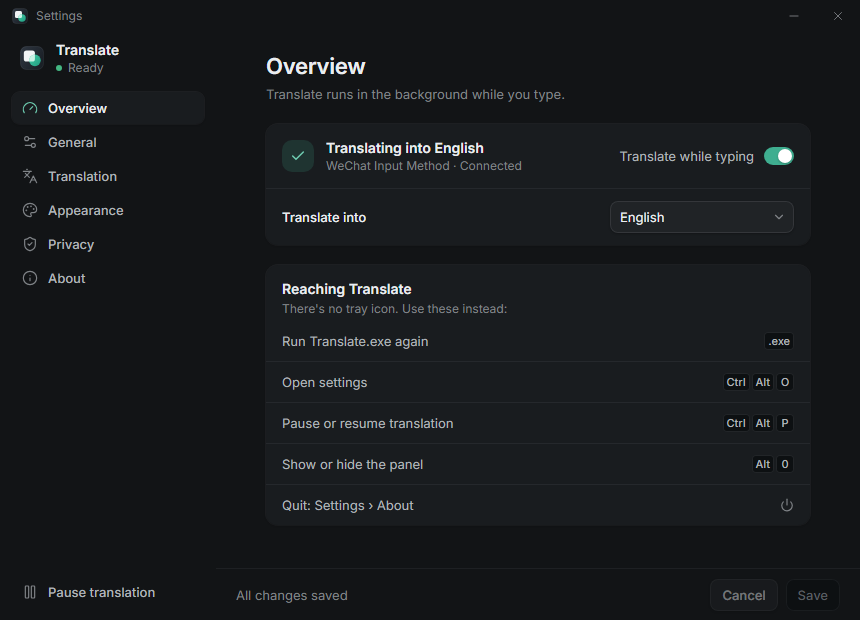
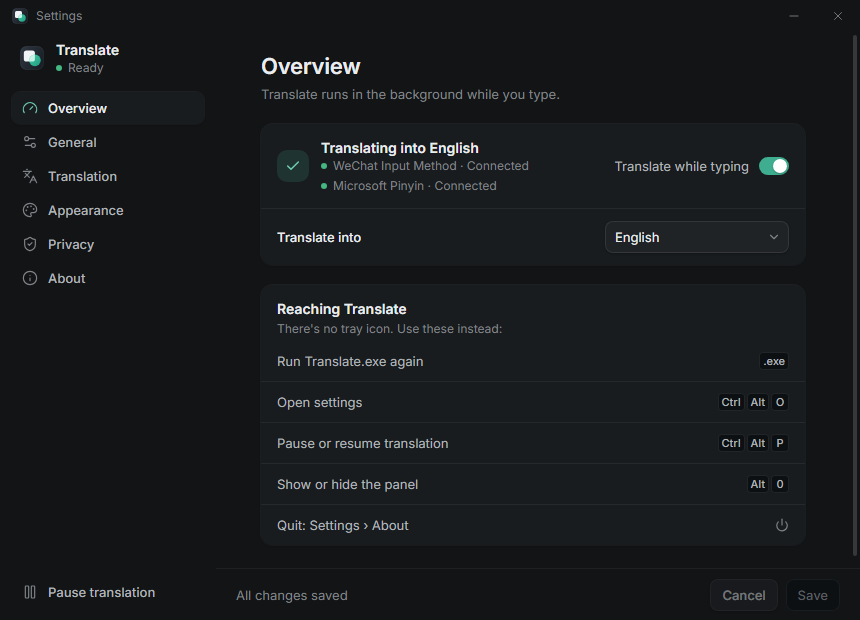
0.2.2: show both input methods with independent connection states

diff --git a/prototype/src/settings/pages.tsx b/prototype/src/settings/pages.tsx
@@ -677,7 +677,6 @@ export function AboutPage({ onQuit }: { onQuit: () => void }) {
   const { t } = useTranslation()
   const [copied, setCopied] = useState(false)
   const version = useReview((r) => r.version)
-  const ime = useImeStatus()
   const pad = 'px-4 py-3'
   const rows: [string, React.ReactNode][] = [
     [t('settings.about.version'), version],
@@ -690,10 +689,7 @@ export function AboutPage({ onQuit }: { onQuit: () => void }) {
     ],
     [
       t('settings.about.ime'),
-      <span className="inline-flex items-center gap-1.5">
-        <span className={cx('size-1.5 rounded-full', ime.ok ? 'bg-success' : 'bg-fg-4')} />
-        {ime.name} — {ime.ok ? t('settings.about.connected') : t('settings.about.notRunning')}
-      </span>,
+      <InputMethodConnections />,
     ],
     // Required attribution (CC BY-SA 4.0) for the local dictionary.
     [t('settings.about.dict'), 'CC-CEDICT · CC BY-SA 4.0'],
@@ -740,20 +736,27 @@ export function AboutPage({ onQuit }: { onQuit: () => void }) {
 }
 
 
-/** Which input method Translate is following and whether it's connected (from the engine; the design lab shows WeType). */
-function useImeStatus(): { name: string; ok: boolean } {
+/** Independent adapter readiness; this does not claim which input method Windows has selected. */
+function InputMethodConnections() {
   const { t } = useTranslation()
-  const [st, setSt] = useState<{ ime: string; imeName?: string }>({ ime: 'connected', imeName: 'wetype' })
+  const [st, setSt] = useState<{ imeStates?: Record<string, string> }>({})
   useEffect(() => {
     if (!bridge) return
     let alive = true
-    const read = () => bridge!.status().then((s) => alive && setSt(s)).catch(() => {})
+    const read = () => bridge!.status().then((s) => alive && setSt(s)).catch(() => alive && setSt({}))
     read()
     const id = window.setInterval(read, 2000)
     return () => ((alive = false), window.clearInterval(id))
   }, [])
-  const name = st.imeName === 'mspinyin' ? t('settings.about.imeMsPinyin') : t('settings.about.imeVal')
-  return { name, ok: st.ime === 'connected' }
+  return <span className="flex flex-col gap-1 text-12 text-fg-3" data-ime-connections>
+    {(['wetype', 'mspinyin'] as const).map((id) => {
+      const connected = st.imeStates?.[id] === 'connected'
+      return <span key={id} data-ime={id} data-connected={connected} className="inline-flex items-center gap-1.5">
+        <span className={cx('size-1.5 shrink-0 rounded-full', connected ? 'bg-success' : 'bg-fg-4')} />
+        {t(id === 'wetype' ? 'settings.about.imeVal' : 'settings.about.imeMsPinyin')} · {t(connected ? 'settings.about.connected' : 'settings.about.disconnected')}
+      </span>
+    })}
+  </span>
 }
 
 /* =========================================================== Overview (direction B) */
@@ -763,7 +766,6 @@ export function OverviewPage({ go }: { go: (p: 'general' | 'translation') => voi
   const [d, set] = useDraft()
   const paused = useReview((r) => r.paused)
   const setp = useReview((r) => r.setp)
-  const ime = useImeStatus()
   const lang = TARGETS.find((x) => x.id === d.target)!.native
   const [keys, setKeys] = useState<Partial<Record<ProviderId, boolean>>>({})
   useEffect(() => {
@@ -781,9 +783,7 @@ export function OverviewPage({ go }: { go: (p: 'general' | 'translation') => voi
             </span>
             <div className="flex-1">
               <div className="text-14 font-semibold text-fg">{paused ? t('settings.overview.statusPaused') : t('settings.overview.statusOk', { lang })}</div>
-              <div className="text-12 text-fg-3">
-                {ime.name} · {ime.ok ? t('settings.about.connected') : t('settings.about.notRunning')}
-              </div>
+              <InputMethodConnections />
             </div>
             <label className="flex items-center gap-2.5 text-13 text-fg-2">
               {t('settings.overview.active')}

diff --git a/prototype/src/settings/bridge.ts b/prototype/src/settings/bridge.ts
@@ -15,7 +15,7 @@ export interface SettingsBridge {
   clearCache(): Promise<{ count: number; bytes: number }>
   openLogs(): void
   /** Engine status: the input method's state and which one (wetype | mspinyin) Translate is following. */
-  status(): Promise<{ ime: string; service: string; imeName?: string }>
+  status(): Promise<{ ime: string; service: string; imeName?: string; imeStates?: Record<string, string> }>
 }
 
 export let bridge: SettingsBridge | null = null

diff --git a/app/src/shared/types.ts b/app/src/shared/types.ts
@@ -54,6 +54,6 @@ export interface TranslateApi {
   svcKeys(): Promise<Record<string, boolean>>
   cacheStats(): Promise<{ count: number; bytes: number }>
   cacheClear(): Promise<{ count: number; bytes: number }>
-  statusGet(): Promise<{ ime: string; service: string; imeName?: string }>
+  statusGet(): Promise<{ ime: string; service: string; imeName?: string; imeStates?: Record<string, string> }>
   openLogs(): void
 }

diff --git a/app/src-tauri/src/host.rs b/app/src-tauri/src/host.rs
@@ -104,6 +104,7 @@ pub struct Host {
     translation_mode: String,
     ime_state: String,
     ime_name: String,
+    ime_states: Value,
     service_state: String,
     last_insert: Value,
     panel_created: u64,
@@ -177,6 +178,7 @@ impl Host {
             translation_mode: "fixture".into(),
             ime_state: "starting".into(),
             ime_name: String::new(),
+            ime_states: json!({}),
             service_state: String::new(),
             last_insert: Value::Null,
             panel_created: 0,
@@ -296,6 +298,7 @@ impl Host {
                 if epoch != self.backend.epoch {
                     return;
                 }
+                self.ime_states = json!({});
                 log::info(format!("backend exited code={code:?}"));
                 let pend: Vec<u64> = self.pending.keys().copied().collect();
                 for id in pend {
@@ -360,6 +363,7 @@ impl Host {
             "status" => {
                 if let Some(st) = m.get("ime").and_then(|i| i.get("state")).and_then(Value::as_str) {
                     self.ime_state = st.into();
+                    self.ime_states = m["ime"]["all"].as_object().map(|s| json!(s)).unwrap_or(json!({}));
                     if let Some(n) = m["ime"].get("name").and_then(Value::as_str) {
                         if n != self.ime_name {
                             log::info(format!("input method {n}"));
@@ -1167,7 +1171,7 @@ impl Host {
             "svc:keys" => self.request("secret.status", json!({}), 3000, Box::new(move |_, m| Self::reply_with(reply, m.get("keys").cloned().unwrap_or(json!({}))))),
             "cache:stats" => self.request("cache.stats", json!({}), 3000, Box::new(move |_, m| Self::reply_with(reply, m))),
             "cache:clear" => self.request("cache.clear", json!({}), 3000, Box::new(move |_, m| Self::reply_with(reply, m))),
-            "status:get" => Self::reply_with(reply, json!({ "ime": self.ime_state, "service": self.service_state, "imeName": self.ime_name })),
+            "status:get" => Self::reply_with(reply, json!({ "ime": self.ime_state, "service": self.service_state, "imeName": self.ime_name, "imeStates": self.ime_states })),
             "logs:open" => {
                 win::open_path(&self.o.user_data.join("logs").to_string_lossy());
                 Self::reply_with(reply, Value::Null)
@@ -1250,6 +1254,7 @@ impl Host {
             "scale": k,
             "imeState": self.ime_state,
             "imeName": self.ime_name,
+            "imeStates": self.ime_states,
             "translationMode": self.translation_mode,
             "lastInsert": self.last_insert,
             "serviceState": self.service_state,

diff --git a/app/scripts/mspy_replay_test.py b/app/scripts/mspy_replay_test.py
@@ -4,7 +4,7 @@ method attached, nothing typed on the desktop).
 Checks: candidates show in the panel under Microsoft Pinyin's bar and clear of the typing line; a new list is a new
 generation without hiding the panel; Alt+N-style insertion cancels with Esc then types; closing ends the composition;
 Automatic switches from WeType to Microsoft Pinyin; Settings › General has the choice and Overview names the input
-method in use.
+methods' independent connection states, including disconnect/reconnect transitions.
 Run from app/:  python -X utf8 scripts/mspy_replay_test.py
 """
 from __future__ import annotations
@@ -91,7 +91,21 @@ def main() -> int:
         app.call("/settings/open", {"page": "overview", "inactive": True})
         time.sleep(1.8)
         txt = cdp.evaluate(CDP, "document.body.innerText", "settings.html") or ""
-        check("Overview names Microsoft Pinyin", "Microsoft Pinyin" in txt, "")
+        connection_js = "Object.fromEntries(Array.from(document.querySelectorAll('[data-ime]'), e => [e.dataset.ime,e.dataset.connected]))"
+        connections = lambda: cdp.evaluate(CDP, connection_js, "settings.html")
+        check("Overview shows both connected input methods", connections() == {"wetype": "true", "mspinyin": "true"})
+        mspy("connection", state="failed")
+        time.sleep(2.3)
+        check("Microsoft Pinyin failure updates only its own row", connections() == {"wetype": "true", "mspinyin": "false"})
+        mspy("connection", state="connected")
+        app.call("/wetype", {"t": "connection", "f": {"state": "waiting"}})
+        time.sleep(2.3)
+        check("WeChat disconnect and Microsoft reconnect refresh independently", connections() == {"wetype": "false", "mspinyin": "true"})
+        app.call("/settings/close")
+        time.sleep(0.6)
+        app.call("/settings/open", {"page": "about", "inactive": True})
+        time.sleep(1.5)
+        check("About shows both independent connection states", connections() == {"wetype": "false", "mspinyin": "true"})
         app.call("/settings/close")
         time.sleep(0.6)
         app.call("/settings/save", {"ime": "wetype"})

diff --git a/backend/tests/test_mspinyin.py b/backend/tests/test_mspinyin.py
@@ -109,6 +109,14 @@ class MsPinyinTests(Harness):
 
 
 class SelectionTests(Harness):
+    def test_each_connection_and_mode_change_is_reported(self):
+        self.dbg("debug.mspy.connection", state="failed")
+        self.assertEqual(self.msgs("status")[-1]["ime"]["all"], {"wetype": "connected", "mspinyin": "failed"})
+        self.dbg("debug.mspy.connection", state="connected")
+        self.assertEqual(self.msgs("status")[-1]["ime"]["all"]["mspinyin"], "connected")
+        self.b.handle({"type": "config.set", "config": {"target": "en", "count": 5, "denylist": [], "ime": "wetype"}})
+        self.assertEqual(self.msgs("status")[-1]["ime"]["all"], {"wetype": "connected"})
+
     def test_auto_follows_the_composing_input_method(self):
         # WeType composes first…
         self.dbg("debug.wetype.window", rect={"x": 100, "y": 200, "w": 600, "h": 46}, foreground=FG)

diff --git a/backend/translate_backend/__main__.py b/backend/translate_backend/__main__.py
@@ -33,7 +33,7 @@ from .wetype.source import WeTypeSource
 from .ime import ImeSources
 from .mspinyin.source import MsPinyinSource
 
-VERSION = "0.2.1"
+VERSION = "0.2.2"
 COMPOSITION_CANCEL_TIMEOUT = 0.5  # s to wait for the IME to confirm Esc cancelled the composition
 SETTLE_AFTER_CANCEL = 0.015       # s between the confirmed cancel and typing (lets the IME's text service settle)
 

diff --git a/backend/translate_backend/ime.py b/backend/translate_backend/ime.py
@@ -76,6 +76,7 @@ class ImeSources:
         self._ensure(MODES[self.mode])
         for s in self.sources.values():
             s.configure(config)
+        self._report()
 
     def accept(self, event):
         name = event.get("ime", "wetype")

diff --git a/docs/publishing.md b/docs/publishing.md
@@ -19,18 +19,18 @@ git push -u origin main
 
 The vendored Frida runtime is not included; `docs/development.md` explains how to restore it.
 
-## Publish version 0.2.1
+## Publish version 0.2.2
 
 Releases › Draft a new release:
 
-- **Tag:** `v0.2.1` on `main`. **Title:** `Translate 0.2.1`.
-- **Notes:** the contents of `docs/release-notes/0.2.1.md`.
-- **Assets:** `release/Translate-0.2.1-win-x64.zip` and `release/SHA256SUMS.txt`.
+- **Tag:** `v0.2.2` on `main`. **Title:** `Translate 0.2.2`.
+- **Notes:** the contents of `docs/release-notes/0.2.2.md`.
+- **Assets:** `release/Translate-0.2.2-win-x64.zip` and `release/SHA256SUMS.txt`.
 
 Or with the GitHub CLI:
 
 ```
-gh release create v0.2.1 release/Translate-0.2.1-win-x64.zip release/SHA256SUMS.txt --title "Translate 0.2.1" --notes-file docs/release-notes/0.2.1.md
+gh release create v0.2.2 release/Translate-0.2.2-win-x64.zip release/SHA256SUMS.txt --title "Translate 0.2.2" --notes-file docs/release-notes/0.2.2.md
 ```
 
 ## Checked before publishing

diff --git a/docs/release.md b/docs/release.md
@@ -1,5 +1,16 @@
 # Release build
 
+## 0.2.2 connection display
+
+Release: `release/Translate-0.2.2-win-x64.zip` (about 61.2 MB; 157.2 MB unpacked).
+Overview and About both list WeChat Input Method and Microsoft Pinyin with independent connection indicators.
+The host now retains the backend's full adapter-state map and clears it on backend exit. Settings refreshes the
+connection indicators every two seconds, and mode changes report removed adapters as no longer connected.
+Connected means the adapter is ready; it does not mean Windows currently has that input method selected.
+
+Verified: TypeScript typecheck; backend 76/76; packaged Microsoft Pinyin replay 15/15 (including independent
+disconnect/reconnect transitions on Overview and About); Overview card 4/4; clean-environment checks 10/10.
+
 ## 0.2.1 hotfix
 
 Release: `release/Translate-0.2.1-win-x64.zip` with `release/SHA256SUMS.txt`.

diff --git a/docs/release-notes/0.2.2.md b/docs/release-notes/0.2.2.md
@@ -1,0 +1,11 @@
+Translate 0.2.2 shows both input-method connections clearly.
+
+- Overview and About each show WeChat Input Method and Microsoft Pinyin on separate lines, with Connected or Not connected for each.
+- Connection states refresh while Settings is open, including failures and adapter selection changes.
+- The translation toggle and target language remain. Choose Automatic, WeChat Input Method, or Microsoft Pinyin in General.
+- Includes the Microsoft Pinyin initialization fix from 0.2.1.
+
+Quit the old app from Settings > About, unzip `Translate-0.2.2-win-x64.zip`, and run `Translate.exe`.
+Your settings and saved API keys carry over.
+
+[README](https://github.com/Rickywu05/translate#readme) · [Changelog](https://github.com/Rickywu05/translate/blob/main/CHANGELOG.md)

diff --git a/README.ko.md b/README.ko.md
@@ -132,7 +132,7 @@ Translate는 Windows의 **WeChat 입력기(微信输入法, WeType)** 를 위한
 코드 서명이 없어 경고가 나타날 수 있습니다. 다운로드 출처를 확인한 뒤 추가 정보 → 실행을 선택할 수 있습니다. 배포 페이지의 `SHA256SUMS.txt`와 비교할 수 있습니다.
 
 ```powershell
-Get-FileHash .\Translate-0.2.1-win-x64.zip -Algorithm SHA256
+Get-FileHash .\Translate-0.2.2-win-x64.zip -Algorithm SHA256
 ```
 
 </details>
